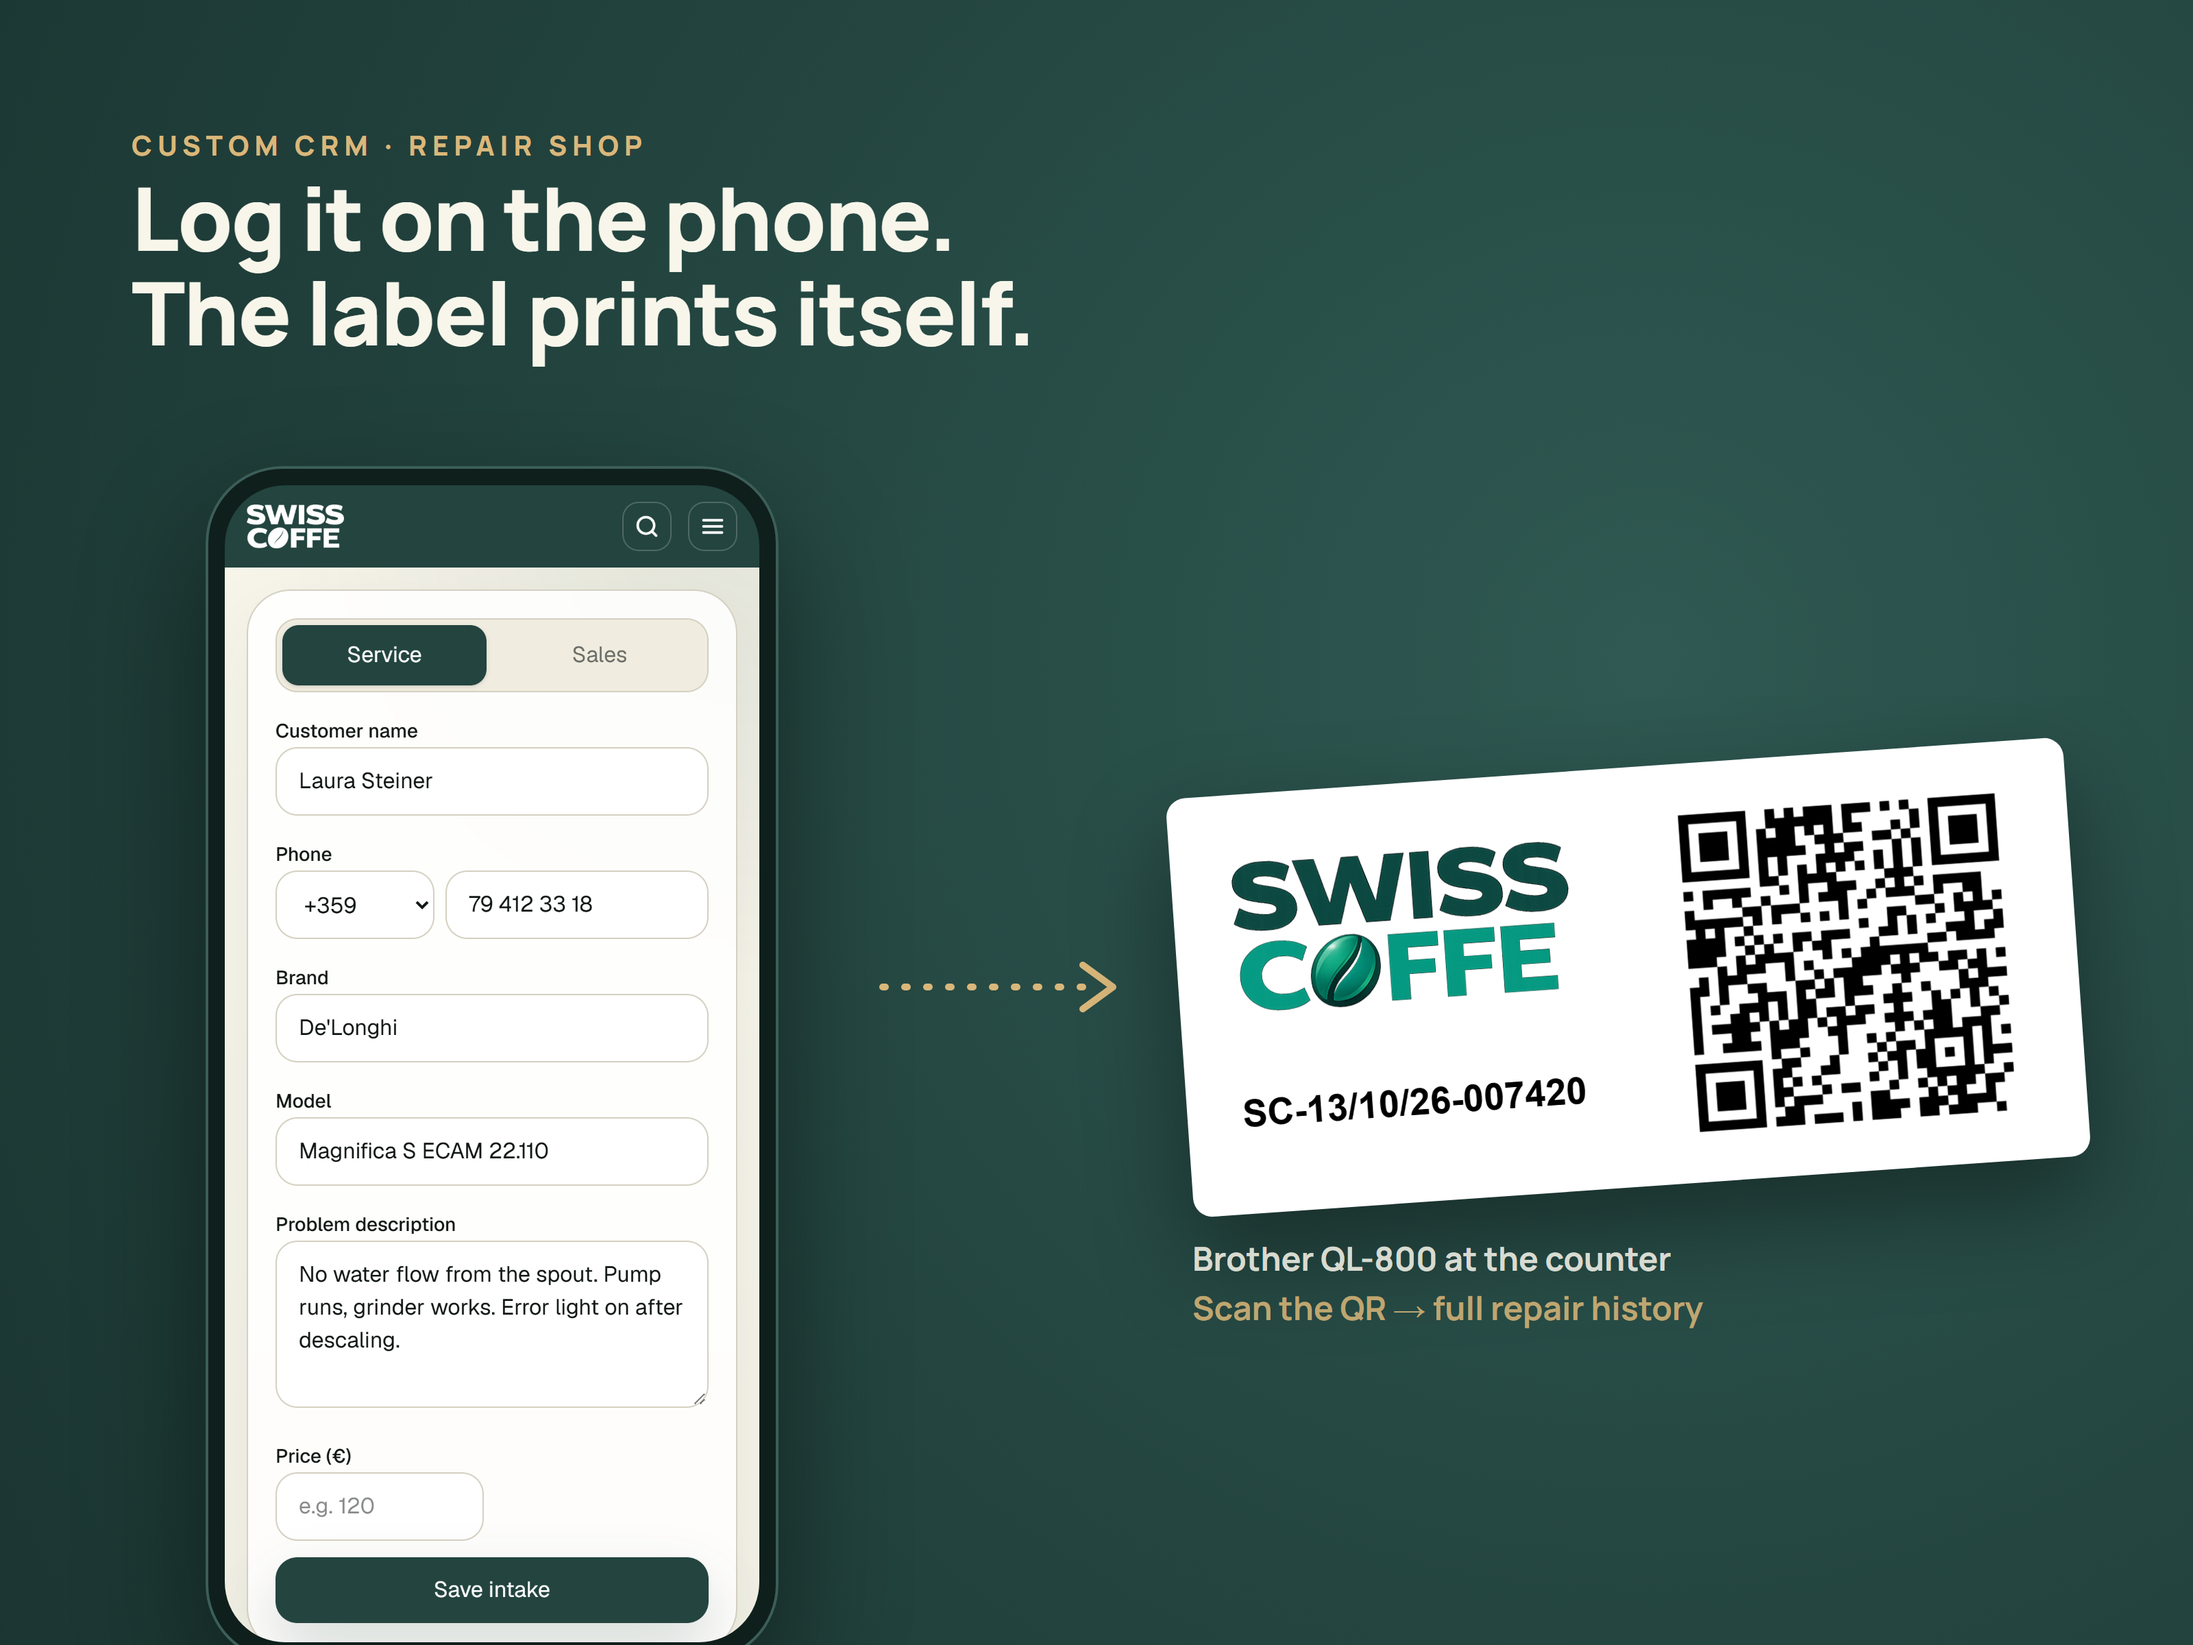
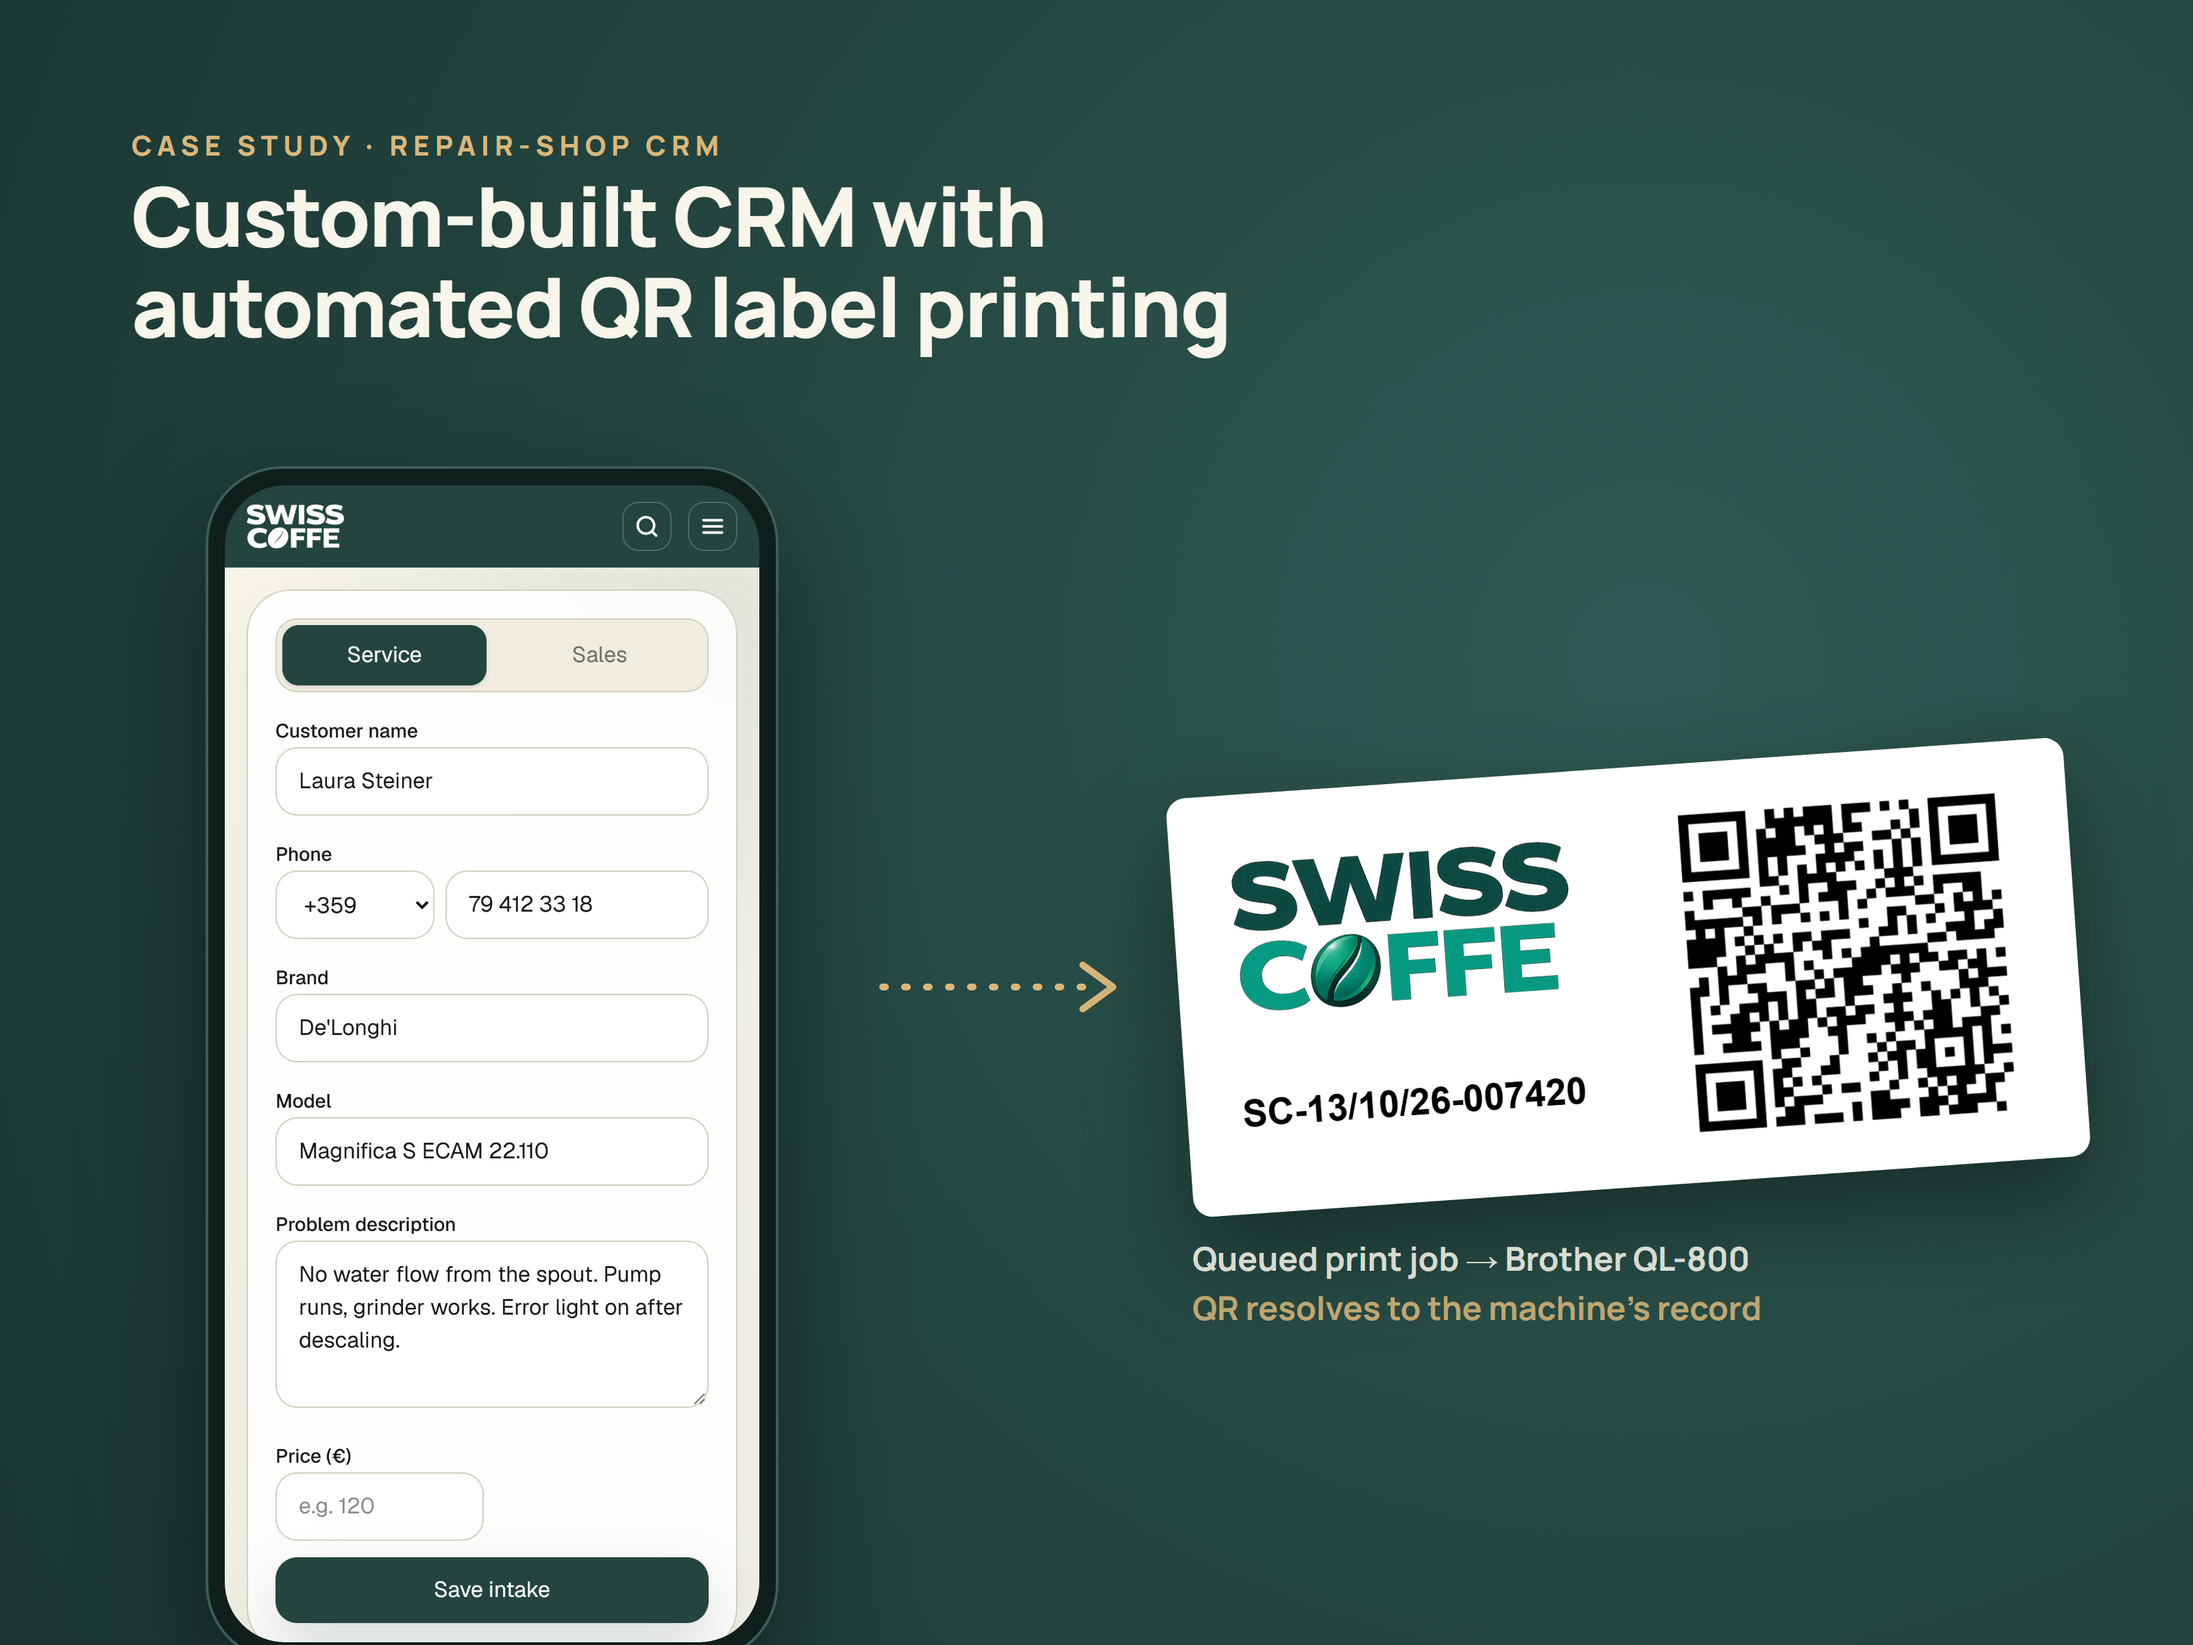
Retitle showcase cover image

Changed region(s): [[0.0625, 0.0625, 0.5625, 0.2188], [0.5312, 0.75, 0.8125, 0.8125]]

diff --git a/README.md b/README.md
@@ -1,6 +1,6 @@
 # Coffee Machine Repair CRM
 
-![Log it on the phone. The label prints itself.](docs/screenshots/01-cover.png)
+![Custom-built CRM with automated QR label printing](docs/screenshots/01-cover.png)
 
 A custom CRM for a family repair business, built from scratch. It replaced a paper-ticket workflow with a system that prints a QR label for every machine that comes through the door, and pulls up that machine's full history when the label is scanned.
 
